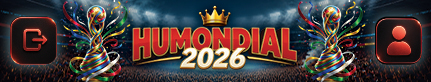
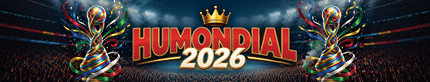
feat(design): integrate official Humondial 2026 brand assets
- Replace header banner with official Humondial 2026 design
- AchievementsScreen: grass+trophy stadium background (hm-achievements-bg)
- LeaderboardScreen: dark arena podium background (leaderboard-bg)
- ExistingMemberModal: hero trophy image as card background with gold border
- HomeScreen quick-action tiles: replace emoji icons with branded badge images
  (הגעתי לסניף / קבלתי משלוח)
- Tune overlay opacity across all three backgrounds for maximum visual impact

diff --git a/src/index.css b/src/index.css
@@ -58,6 +58,44 @@ body {
   z-index: 1;
 }
 
+.hm-achievements-bg {
+  position: relative;
+  overflow: hidden;
+}
+.hm-achievements-bg::before {
+  content: '';
+  position: fixed;
+  inset: 0;
+  pointer-events: none;
+  z-index: 0;
+  background:
+    linear-gradient(180deg, rgba(2,6,2,0.18) 0%, rgba(2,6,2,0.38) 45%, rgba(1,4,1,0.72) 100%),
+    url('/assets/achievements-bg.jpg') top center / cover no-repeat;
+}
+.hm-achievements-bg > * {
+  position: relative;
+  z-index: 1;
+}
+
+.leaderboard-bg {
+  position: relative;
+  overflow: hidden;
+}
+.leaderboard-bg::before {
+  content: '';
+  position: fixed;
+  inset: 0;
+  pointer-events: none;
+  z-index: 0;
+  background:
+    linear-gradient(180deg, rgba(0,2,8,0.20) 0%, rgba(0,2,8,0.40) 40%, rgba(0,1,5,0.75) 100%),
+    url('/assets/leaderboard-bg.jpg') top center / cover no-repeat;
+}
+.leaderboard-bg > * {
+  position: relative;
+  z-index: 1;
+}
+
 .confetti-piece {
   position: fixed;
   width: 8px;

diff --git a/src/screens/HomeScreen.jsx b/src/screens/HomeScreen.jsx
@@ -570,14 +570,24 @@ function HeroCard({
   );
 }
 
-function QuickActionTile({ icon, label, sub, onClick, href, scrolled }) {
+function QuickActionTile({ icon, iconSrc, label, sub, onClick, href, scrolled }) {
   const inner = (
     <div
       className="hm-card flex flex-col items-center gap-0.5 cursor-pointer transition-all duration-200 w-full"
       style={{ padding: scrolled ? '8px 4px' : '10px 6px' }}
       onClick={onClick}
     >
-      <div className={`${scrolled ? 'text-xl' : 'text-2xl'} leading-none`}>{icon}</div>
+      {iconSrc ? (
+        <img
+          src={iconSrc}
+          alt=""
+          className="object-contain"
+          style={{ height: scrolled ? 22 : 28, width: 'auto', maxWidth: '100%' }}
+          draggable={false}
+        />
+      ) : (
+        <div className={`${scrolled ? 'text-xl' : 'text-2xl'} leading-none`}>{icon}</div>
+      )}
       {label ? (
         <div
           className={`font-bold text-center leading-tight ${scrolled ? 'text-[9px]' : 'text-[10px]'}`}
@@ -1799,8 +1809,8 @@ export default function HomeScreen({ playerId, onLogout, onPersonalArea, onPerso
           </div>
           <div className="grid grid-cols-3 gap-2 px-3 mb-1">
             <QuickActionTile icon="🎁" label="הטבות שלי" onClick={onMyQR} scrolled={false} />
-            <QuickActionTile icon="🛵" label="קיבלת משלוח?" onClick={openVenueDelivery} scrolled={false} />
-            <QuickActionTile icon="📍" label="הגעתי לסניף" onClick={openVenueAtBranch} scrolled={false} />
+            <QuickActionTile iconSrc="/assets/icon-delivery.jpg" label="קיבלת משלוח?" onClick={openVenueDelivery} scrolled={false} />
+            <QuickActionTile iconSrc="/assets/icon-branch-visit.jpg" label="הגעתי לסניף" onClick={openVenueAtBranch} scrolled={false} />
           </div>
 
           <StageFilterTabs stages={stages} activeStage={activeStage} onSelect={setActiveStage} />

diff --git a/src/components/ExistingMemberModal.jsx b/src/components/ExistingMemberModal.jsx
@@ -24,10 +24,11 @@ export default function ExistingMemberModal({ bonusPoints, tierName, onClose }) 
     >
       <div
         className="w-full max-w-sm rounded-3xl p-6 flex flex-col items-center gap-3"
-        style={{ background: '#1e1e35', border: '1px solid rgba(255,255,255,0.12)' }}
+        style={{
+          background: 'linear-gradient(to bottom, rgba(4,2,2,0.42) 0%, rgba(6,3,3,0.65) 55%, rgba(8,4,4,0.88) 100%), url(/assets/existing-member-hero.jpg) top center / cover no-repeat',
+          border: '1px solid rgba(244,193,93,0.35)',
+        }}
       >
-        <div className="text-5xl mt-2">🤝</div>
-
         <div
           className="text-xs font-bold px-3 py-0.5 rounded-full"
           style={{

diff --git a/src/screens/LeaderboardScreen.jsx b/src/screens/LeaderboardScreen.jsx
@@ -70,7 +70,7 @@ export default function LeaderboardScreen({ token, campaignId, onNavigateHome, o
 
   if (loading) {
     return (
-      <div className="min-h-dvh stadium-bg flex items-center justify-center">
+      <div className="min-h-dvh leaderboard-bg flex items-center justify-center">
         <div className="text-2xl font-black animate-pulse" style={{ color: 'var(--red)' }}>טוען...</div>
       </div>
     );
@@ -78,7 +78,7 @@ export default function LeaderboardScreen({ token, campaignId, onNavigateHome, o
 
   if (error) {
     return (
-      <div className="min-h-dvh stadium-bg flex flex-col items-center justify-center gap-4 p-6">
+      <div className="min-h-dvh leaderboard-bg flex flex-col items-center justify-center gap-4 p-6">
         <div style={{ color: 'var(--text-sec)' }}>{error}</div>
         <button onClick={load} className="hm-btn-primary px-6 py-2 text-sm">נסה שוב</button>
       </div>
@@ -108,7 +108,7 @@ export default function LeaderboardScreen({ token, campaignId, onNavigateHome, o
   };
 
   return (
-    <div className="min-h-dvh stadium-bg overflow-y-auto pb-20" dir="rtl">
+    <div className="min-h-dvh leaderboard-bg overflow-y-auto pb-20" dir="rtl">
       <header className="flex items-center justify-between px-4 py-3">
         <div className="text-base font-black" style={{ color: 'var(--text)' }}>לוח האלופים</div>
         <button

diff --git a/src/screens/AchievementsScreen.jsx b/src/screens/AchievementsScreen.jsx
@@ -10,7 +10,7 @@ export default function AchievementsScreen({ achievements = [], onBack }) {
   const achievementsOrdered = [...unlockedAchievements, ...lockedAchievements];
 
   return (
-    <div className="hm-personal-screen-bg" dir="rtl">
+    <div className="hm-achievements-bg" dir="rtl">
       <div className="h-dvh overflow-y-auto pb-8">
         <header className="flex items-center justify-between px-4 py-3">
           <button